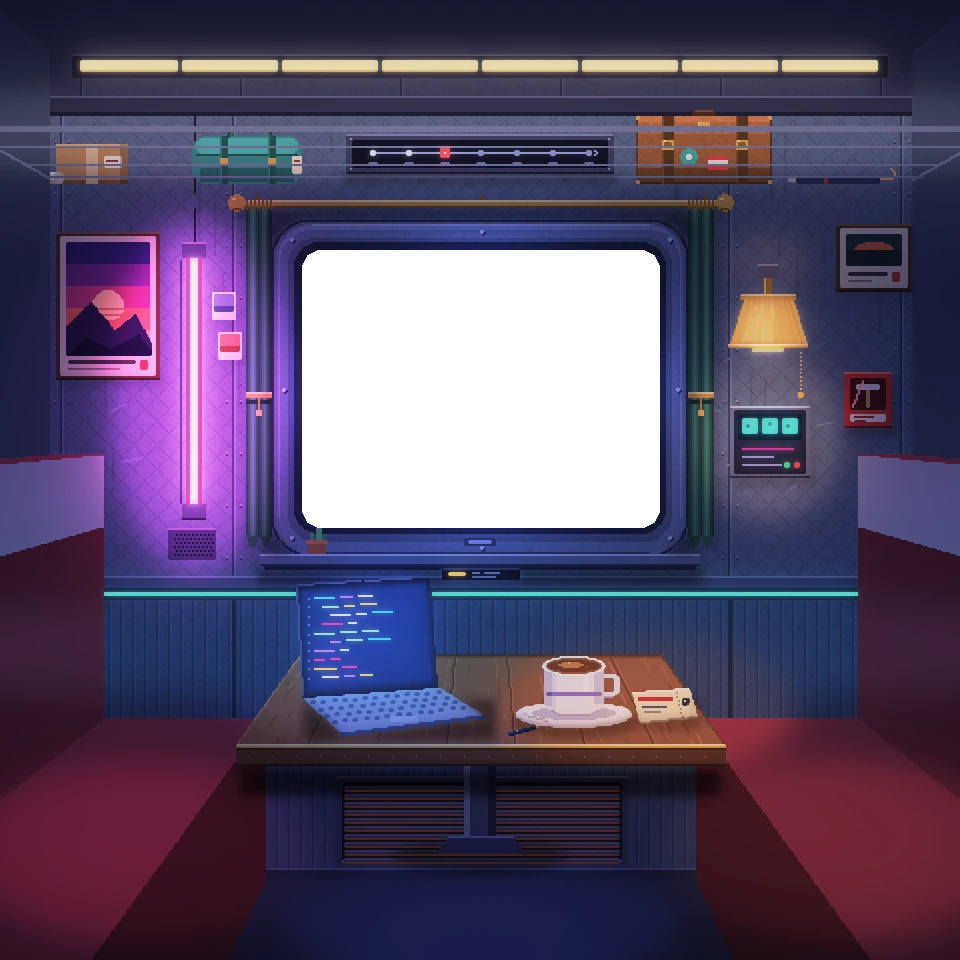
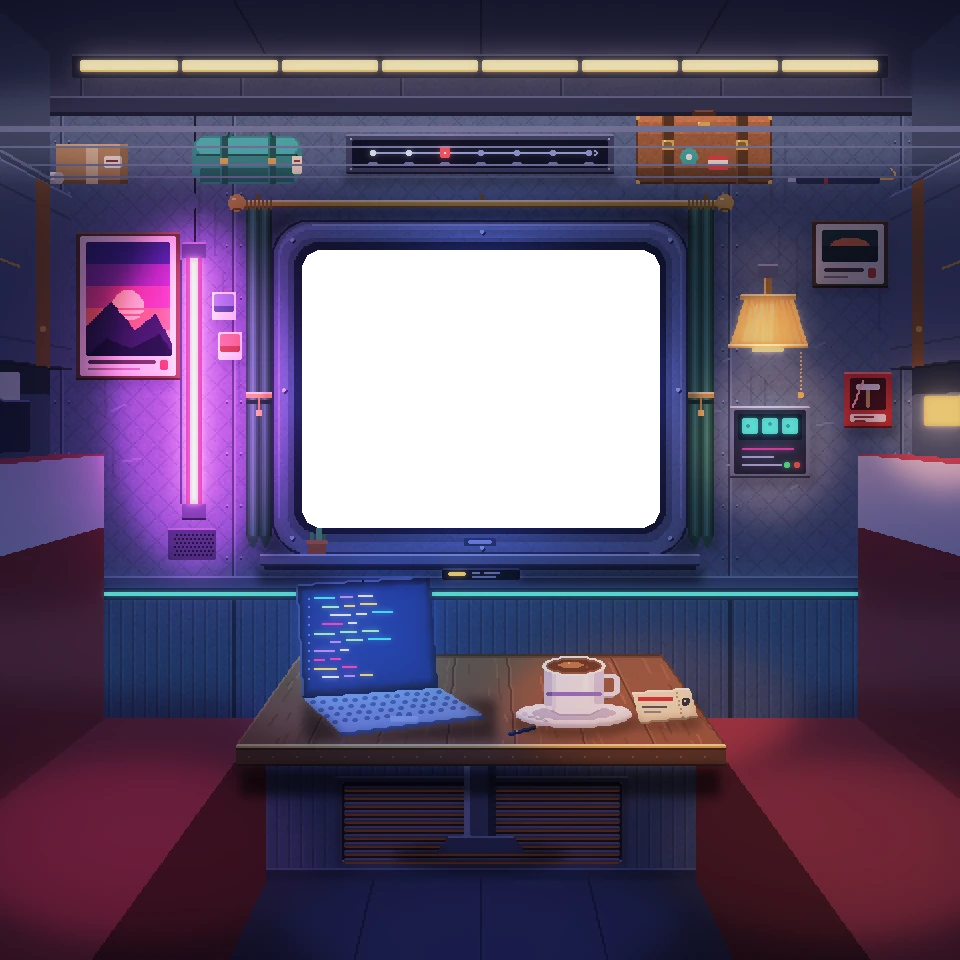
art(1.1): make the side walls a sleeper's partitions
Blank side walls read as a box, not a train. Each one now carries what a
sleeper compartment's partition carries: the upper berth folded up against it,
held by leather straps with a pull handle, panel seams, and in the strip
between the berth and the backrest a reading lamp on the right and a net pocket
on the left. Floor and ceiling get seams running toward the camera and across
it. All of it is placed in compartment coordinates and projected, so it
converges with the rest.

The sunset poster and the small frame move inward so the berths do not cut
them. Still block-in: flat colour, finished in 1.3 and stage 3.

Changed region(s): [[0.8438, 0.1875, 1.0, 0.5312], [0.0, 0.1875, 0.1875, 0.4375]]

diff --git a/tools/art/room.py b/tools/art/room.py
@@ -590,7 +590,7 @@ def poster(g, x, y, w, h, kind):
 
 def walls(g, rnd):
     # ---- left wall
-    poster(g, 30, 118, 48, 70, 'sunset')
+    poster(g, 40, 118, 48, 70, 'sunset')
     # neon tube
     g.line([(97, 58), (97, 96)], (30, 30, 50))
     g.line([(97, 104), (97, 123)], (30, 30, 50))
@@ -652,7 +652,7 @@ def walls(g, rnd):
     g.lrect(397, 231, 3, 3, (255, 80, 80), 0.8)
     g.lrect(392, 231, 3, 3, (90, 255, 150), 0.7)
     # small picture frame and emergency hammer
-    poster(g, 420, 114, 34, 30, 'moon')
+    poster(g, 408, 112, 34, 30, 'moon')
     g.shadow(423, 188, 26, 30, 0.6)
     g.rect(422, 186, 24, 28, (196, 56, 62))
     g.rect(422, 186, 24, 1, (255, 120, 120))
@@ -707,6 +707,65 @@ def structure(g):
         g.line([ri(P(-HW, RACK_Y, z)), ri(P(HW, RACK_Y, z))], STEEL, width=3 if i == 3 else 1)
     for s in (-1, 1):
         g.line([ri(P(s * HW, RACK_Y, D)), ri(P(s * HW, RACK_Y, D - RACK_DEPTH))], STEEL, width=2)
+
+
+BERTH = (1.42, 1.90, 0.06)  # folded upper berth: bottom, top, thickness off the wall
+
+
+def side_wall(g, s):
+    """What makes the side walls a sleeper compartment's partitions rather than
+    blank planes: the upper berth folded up against each one, held by straps,
+    with a strip of wall between it and the backrest for the small fittings.
+    s = -1 on the left, +1 on the right."""
+    HW, C, D = ROOM_HALF_WIDTH, ROOM_CEILING, WALL_DIST
+    y0, y1, t = BERTH
+    wall = mul(WALL, 0.78)
+    on = lambda z, y, inset=0.0: ri(P(s * (HW - inset), y, z))
+    # partition panel seams
+    for z in (1.62, 1.24, 0.9):
+        g.line([on(z, BACK_TOP), on(z, C)], mul(wall, 0.7))
+    # the berth: its shadow on the wall, its underside, its face
+    receding(g, s * HW, y0 - 0.07, s * HW, y0, mul(wall, 0.62))
+    receding(g, s * HW, y0, s * (HW - t), y0, mul(WALL, 0.4))
+    face = (92, 102, 136)
+    receding(g, s * (HW - t), y0, s * (HW - t), y1, face)
+    g.line([on(D, y1, t), on(Z_NEAR, y1, t)], mul(face, 1.35))
+    g.line([on(D, y0, t), on(Z_NEAR, y0, t)], mul(face, 0.55))
+    g.line([on(D, y0 + 0.06, t), on(Z_NEAR, y0 + 0.06, t)], mul(face, 0.8))
+    g.line([on(D, y1 - 0.06, t), on(Z_NEAR, y1 - 0.06, t)], mul(face, 0.8))
+    # retaining straps and the pull handle
+    for z in (1.9, 1.5, 1.1):
+        quad(g, [(s * (HW - t), y0, z), (s * (HW - t), y1, z), (s * (HW - t), y1, z - 0.045), (s * (HW - t), y0, z - 0.045)], (150, 96, 62))
+        bx, by = on(z - 0.022, y0 + 0.1, t)
+        g.rect(bx - 1, by - 1, 3, 3, BRASS)
+    g.line([on(1.78, 1.66, t), on(1.62, 1.66, t)], BRASS, width=2)
+    if s > 0:
+        # reading lamp under the berth, by the window
+        pts = [P(HW - 0.04, y, z) for z, y in ((1.88, 1.27), (1.88, 1.34), (1.74, 1.34), (1.74, 1.27))]
+        g.lpoly([ri(q) for q in pts], (255, 190, 110), 0.8, body=(255, 232, 180))
+        lx, ly = on(1.81, 1.3)
+        g.light(lx - 40, ly - 22, 70, 60, (255, 170, 90), 0.3)
+    else:
+        # net pocket with a folded paper in it
+        net = lambda z, y: P(-(HW - 0.03), y, z)
+        g.poly([ri(net(1.82, 1.24)), ri(net(1.82, 1.4)), ri(net(1.6, 1.4)), ri(net(1.6, 1.24))], (226, 222, 210))
+        g.poly([ri(net(1.86, 1.2)), ri(net(1.86, 1.33)), ri(net(1.5, 1.33)), ri(net(1.5, 1.2))], (40, 44, 72))
+        g.line([ri(net(1.86, 1.33)), ri(net(1.5, 1.33))], STEEL)
+
+
+def floor_and_ceiling(g):
+    """Seams that run toward the camera and across it, so the floor and ceiling
+    read as planes with depth."""
+    HW, C, D = ROOM_HALF_WIDTH, ROOM_CEILING, WALL_DIST
+    dark = (30, 32, 54)
+    for x in (-0.3, 0.0, 0.3):
+        g.line([ri(P(x, 0, D)), ri(P(x, 0, Z_NEAR))], dark)
+    for z in (1.7, 1.42, 1.18, 0.98, 0.82):
+        g.line([ri(P(-HW, 0, z)), ri(P(HW, 0, z))], dark)
+    for x in (-0.6, 0.0, 0.6):
+        g.line([ri(P(x, C, D)), ri(P(x, C, Z_NEAR))], mul(CEIL, 0.7))
+    for z in (1.6, 1.25):
+        g.line([ri(P(-HW, C, z)), ri(P(HW, C, z))], mul(CEIL, 0.7))
 
 
 def bench(g, s):
@@ -872,6 +931,9 @@ def build_room(seed=21):
     rack(g, rng('rack'))
     window(g, rng('window'))
     structure(g)
+    floor_and_ceiling(g)
+    side_wall(g, -1)
+    side_wall(g, 1)
     bench(g, -1)
     bench(g, 1)
     table(g, rng('table'))

diff --git a/docs/13-art-review.md b/docs/13-art-review.md
@@ -523,6 +523,11 @@ on it, and keeping it fixed removes the largest risk in the redraw.
 | 1.5  | S-06       | Ceiling plane and fixture                                                                          |      |
 | 1.6  | S-07       | Table meets the wall; contact shadows                                                              | yes  |
 
+The side walls are the partitions of a sleeper compartment, and 1.1 already
+gives each one its folded upper berth with straps, plus a reading lamp or a net
+pocket in the strip below it: blank planes did not read as a train. 1.3 finishes
+those fittings.
+
 After 1.1 the picture will look worse than `main`. That is the block-in doing
 its job; the gate is about whether the space is right, not whether it is
 finished.
